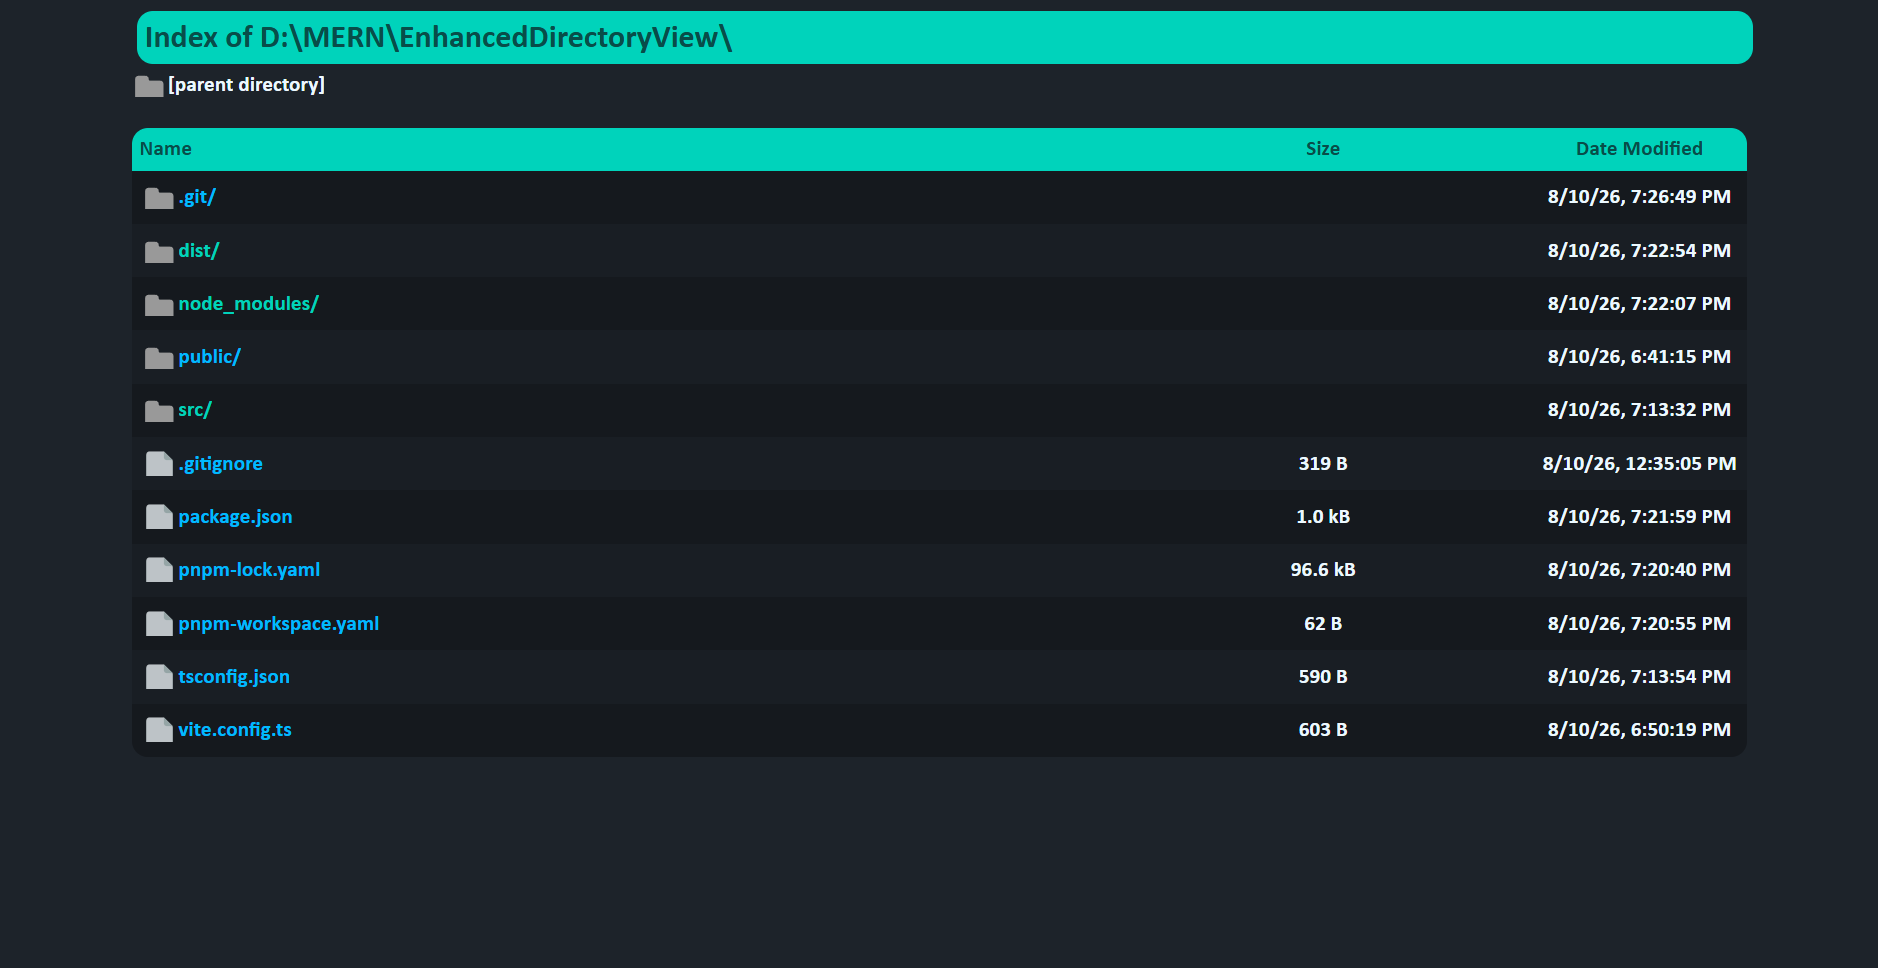
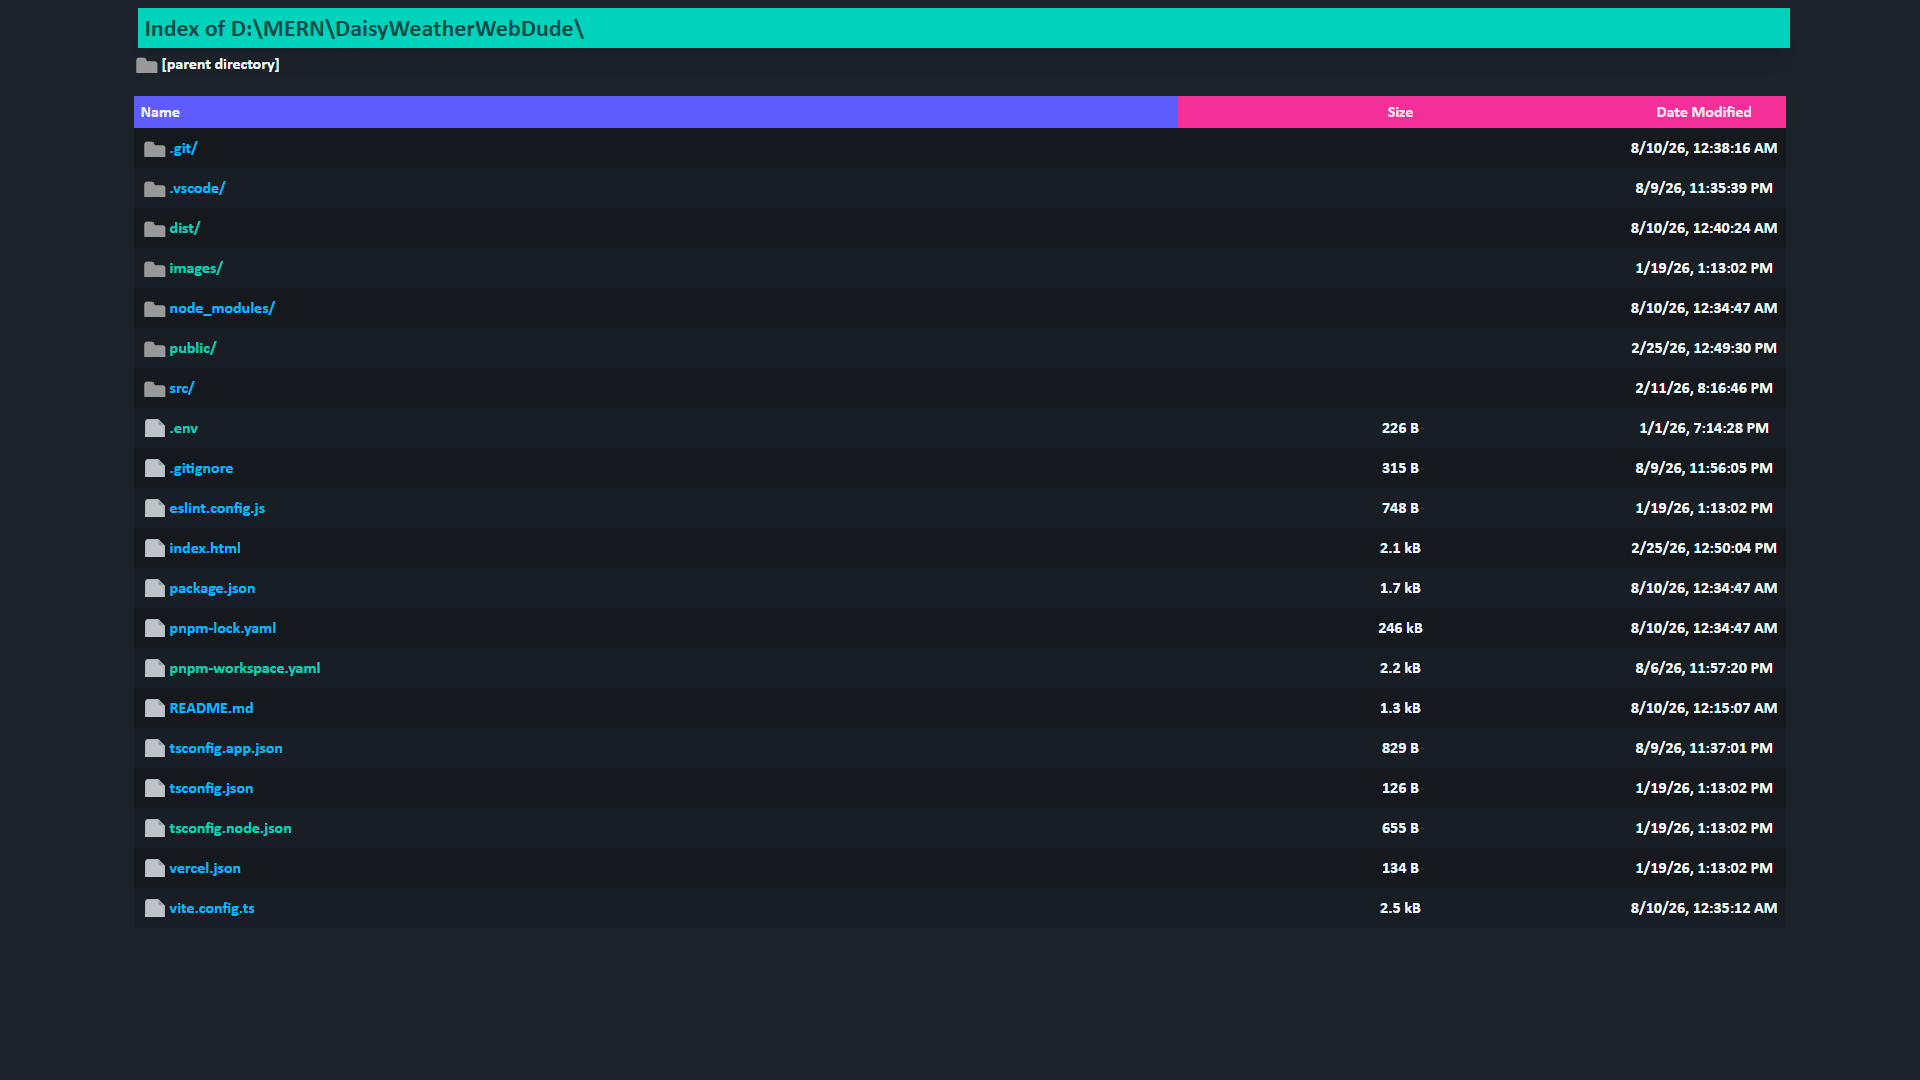
minor changes done

diff --git a/src/index.css b/src/index.css
@@ -6,14 +6,19 @@
 }
 
 :root {
-  --radius-selector: 0.75rem;
-  --radius-field: 0.75rem;
-  --radius-box: 0.75rem;
+  --radius-selector: 0;
+  --radius-field: 0;
+  --radius-box: 0;
   --depth: 1;
+  --noise: 1;
+}
+
+html {
+  @apply min-h-dvh;
 }
 
 * {
-  @apply font-semibold text-base text-base-content! font-["Montserrat"] scroll-smooth;
+  @apply font-semibold text-base text-base-content! font-["Montserrat"] scroll-smooth transition-all;
 }
 
 body {
@@ -21,7 +26,7 @@ body {
 }
 
 h1 {
-  @apply overflow-hidden text-2xl! text-accent-content! font-extrabold bg-accent px-1.5! py-1! m-1! mt-2! whitespace-nowrap block! rounded-box border-b-0!;
+  @apply overflow-hidden text-2xl! text-accent-content! font-extrabold bg-accent px-1.5! py-1! m-1! mt-2! whitespace-nowrap block! rounded-box border-b-0! shadow-xl;
 }
 
 a:visited {
@@ -34,12 +39,12 @@ a:link {
 
 table tr:first-child th {
   border: none;
-  @apply bg-accent! font-black text-center! py-1 px-1.5 text-accent-content!;
+  @apply bg-secondary! font-black text-center! py-1 px-1.5 text-secondary-content!;
 }
 
 #nameColumnHeader {
   border: none;
-  @apply bg-accent! font-black text-left! py-1 px-1.5 text-accent-content!;
+  @apply bg-primary! font-black text-left! py-1 px-1.5 text-primary-content!;
 }
 
 table {
@@ -75,11 +80,11 @@ a.icon:hover {
 }
 
 tr:nth-child(even) {
-  @apply bg-base-200;
+  @apply bg-base-200 hover:scale-95;
 }
 
 tr:nth-child(odd) {
-  @apply bg-base-300;
+  @apply bg-base-300 hover:scale-95;
 }
 
 a.file {
